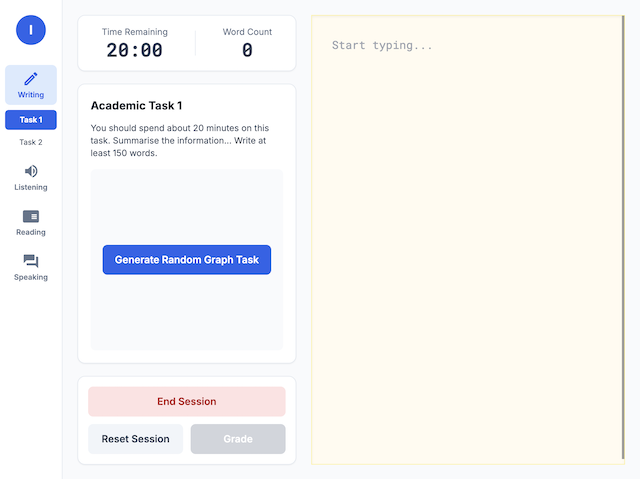
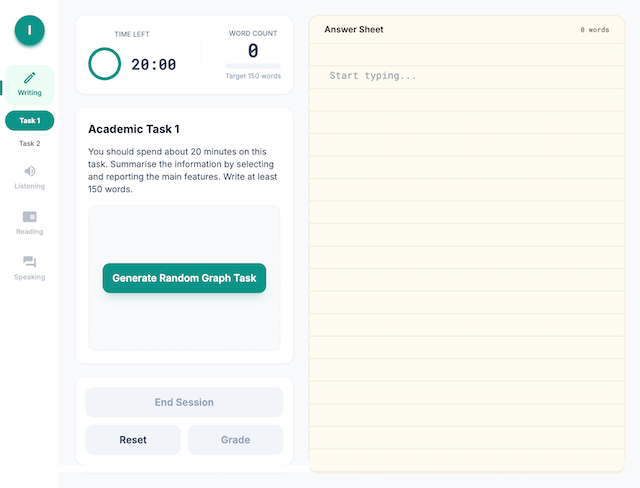
feature: Application prepared to be deployed without API Key because of facturation issues

diff --git a/src/modules/WritingTask1.jsx b/src/modules/WritingTask1.jsx
@@ -41,7 +41,7 @@ const WritingTask1 = ({ apiKey }) => {
 
     const handleGenerateTask = async () => {
         if (!apiKey) {
-            setErrorMessage("Please add your Gemini API key at the top of the file.");
+            setErrorMessage("This public demo doesn't ship with an API key. Clone the repo and add your own free Gemini key to a local .env file to use this feature.");
             return;
         }
         setIsGenerating(true);
@@ -59,7 +59,7 @@ const WritingTask1 = ({ apiKey }) => {
 
     const handleGrade = async () => {
         if (!apiKey) {
-            setErrorMessage("Please add your Gemini API key at the top of the file.");
+            setErrorMessage("This public demo doesn't ship with an API key. Clone the repo and add your own free Gemini key to a local .env file to use this feature.");
             return;
         }
         setIsGrading(true);

diff --git a/src/App.jsx b/src/App.jsx
@@ -14,8 +14,11 @@ import ListeningFullTest from './modules/ListeningFullTest';
 import WritingTask1 from './modules/WritingTask1';
 import WritingTask2 from './modules/WritingTask2';
 
-// --- IMPORTANT: ADD YOUR API KEY HERE --- //
+// Read from a local .env file (REACT_APP_GEMINI_API_KEY=...), never committed.
 // Get your free key from Google AI Studio: https://aistudio.google.com/app/apikey
+// The public GitHub Pages build intentionally ships without this key — CRA bakes
+// REACT_APP_* vars into the public JS bundle, so a real key would be extractable
+// by anyone visiting the live demo. AI features are local-only by design.
 const GEMINI_API_KEY = process.env.REACT_APP_GEMINI_API_KEY;
 
 // --- MAIN APP COMPONENT --- //

diff --git a/src/modules/ListeningFullTest.jsx b/src/modules/ListeningFullTest.jsx
@@ -33,7 +33,7 @@ const ListeningFullTest = ({ apiKey }) => {
 
     const handleGenerateNextPart = useCallback(async (part) => {
         if (!apiKey) {
-            setErrorMessage("Please add your Gemini API key at the top of the file to generate the test.");
+            setErrorMessage("This public demo doesn't ship with an API key. Clone the repo and add your own free Gemini key to a local .env file to generate the test.");
             setPhase('not_started');
             return;
         }

diff --git a/src/modules/WritingTask2.jsx b/src/modules/WritingTask2.jsx
@@ -46,7 +46,7 @@ const WritingTask2 = ({ apiKey }) => {
 
     const handleGrade = async () => {
         if (!apiKey) {
-            setErrorMessage("Please add your Gemini API key at the top of the file.");
+            setErrorMessage("This public demo doesn't ship with an API key. Clone the repo and add your own free Gemini key to a local .env file to use this feature.");
             return;
         }
         setIsGrading(true);
